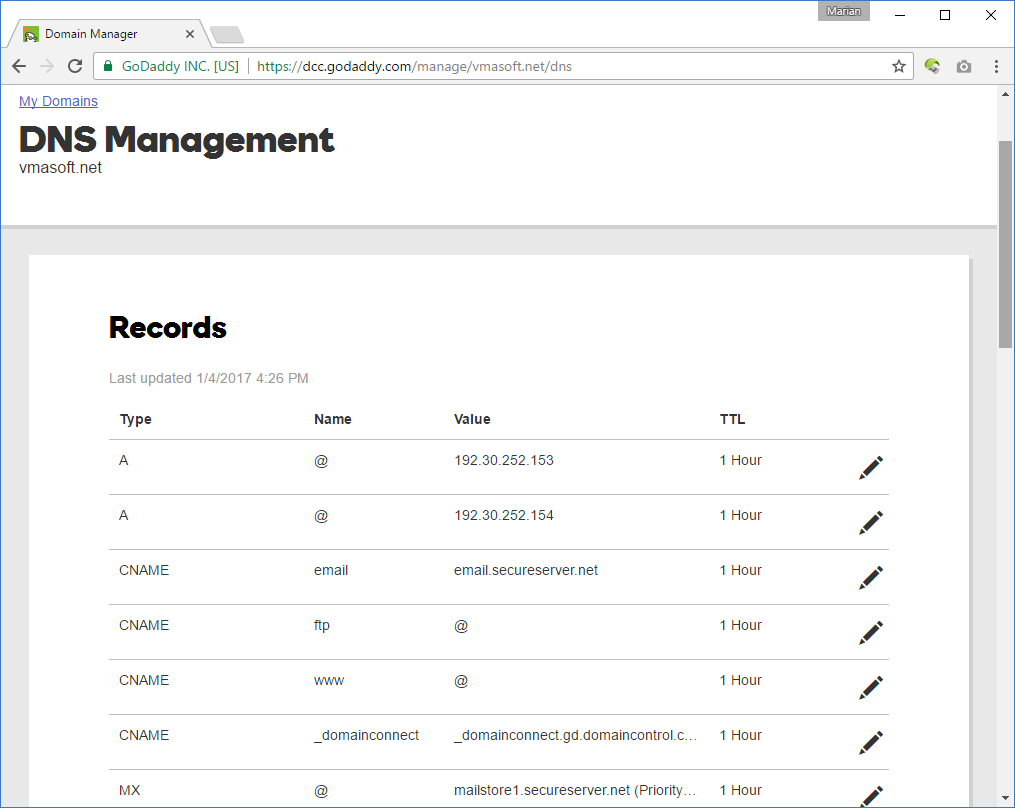
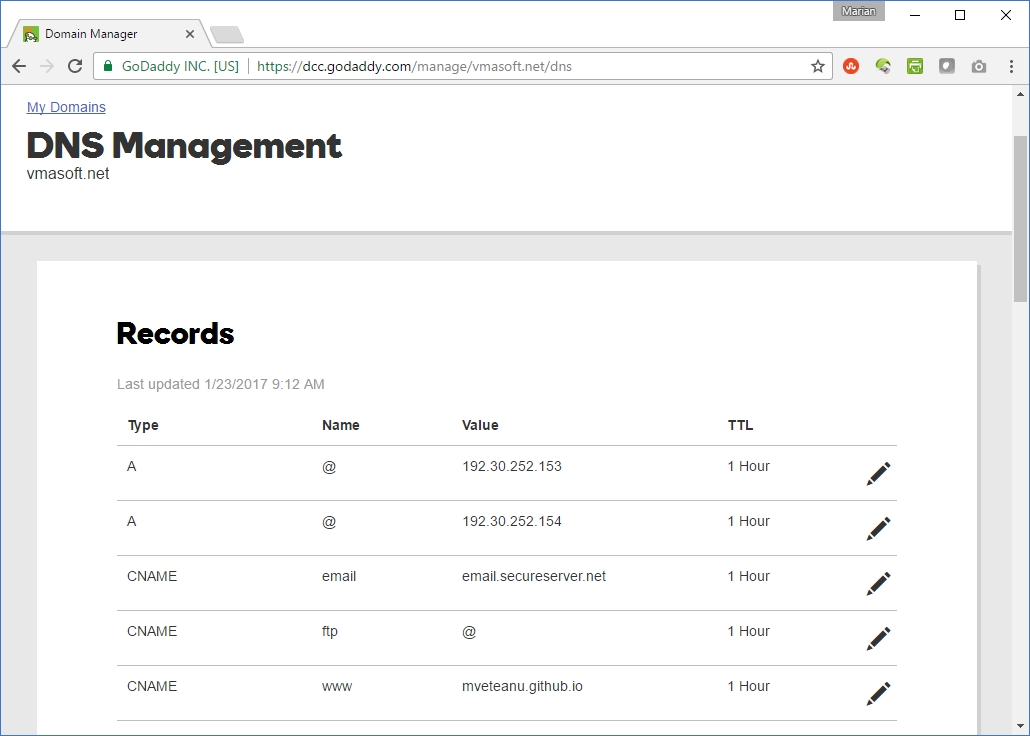
.

diff --git a/_posts/2017-01-09-Add-a-custom-domain-to-a-GitHub-repository.md b/_posts/2017-01-09-Add-a-custom-domain-to-a-GitHub-repository.md
@@ -16,7 +16,7 @@ Create the GitHub pages site
 
 1. Open an account with [GitHub](http://www.github.com). If you already have a github account, you can use that one.
 
-2. On you GitHub account, create a new repository: E.g. vmasoft
+2. On you GitHub account, create a new project repository: E.g. vmasoft
 
    ![](/img/posts/godaddy_github_01.png)
 
@@ -80,15 +80,15 @@ Go back to GoDaddy and enter the "Manage DNS" section for your domain.
 
 
 2. To set up the www subdomain, such as [www.vmasoft.net](http://www.vmasoft.net) we need to configure a CNAME record with GoDaddy.
-The CNAME record will never point to an IP address but instead to another DNS record.
+In order to take advange of GitHub CDN, we will have to point the www subdomain to GitHub account address.
 
    At this point, the GoDaddy DNS records should contain the following:
 
-   |NAME  |   TYPE  |     VALUE          |
-   |------|---------|--------------------|
-   |@     |   A     |     192.30.252.153 |
-   |@     |   A     |     192.30.252.154 |
-   |www   |   CNAME |     @              |
+   |NAME  |   TYPE  |  VALUE              |
+   |------|---------|---------------------|
+   |@     |   A     |  192.30.252.153     |
+   |@     |   A     |  192.30.252.154     |
+   |www   |   CNAME |  mveteanu.github.io |
 
 
    Note: Other entries may be already pre-populated. Don't worry about those.
@@ -102,3 +102,12 @@ Test your new domain
 1. Wait a few minutes (or hours) for the changes to propagate.
 
 2. Test your new website / domain. E.g. [http://www.vmasoft.net](http://www.vmasoft.net)
+
+3. If you have access to a Linux machine you can use the dig command to check the DNS settings:
+
+```sh
+dig www.vmasoft.net
+```
+
+![](/img/posts/godaddy_github_06.png)
+
